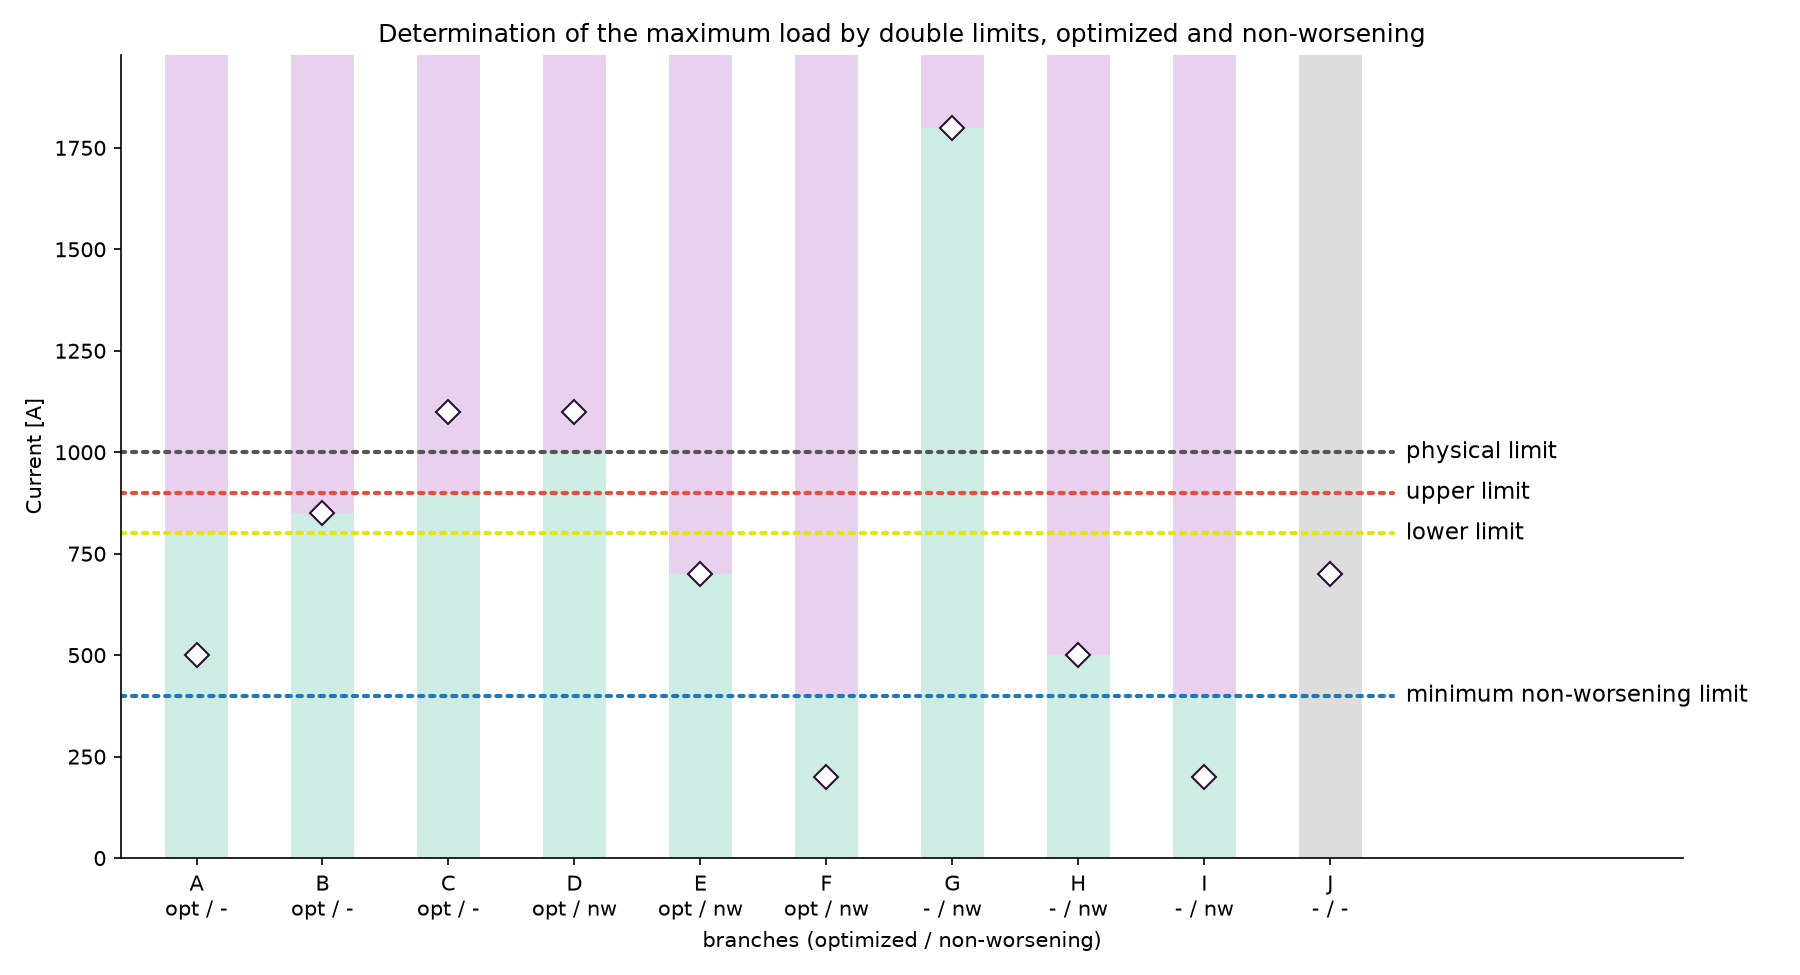
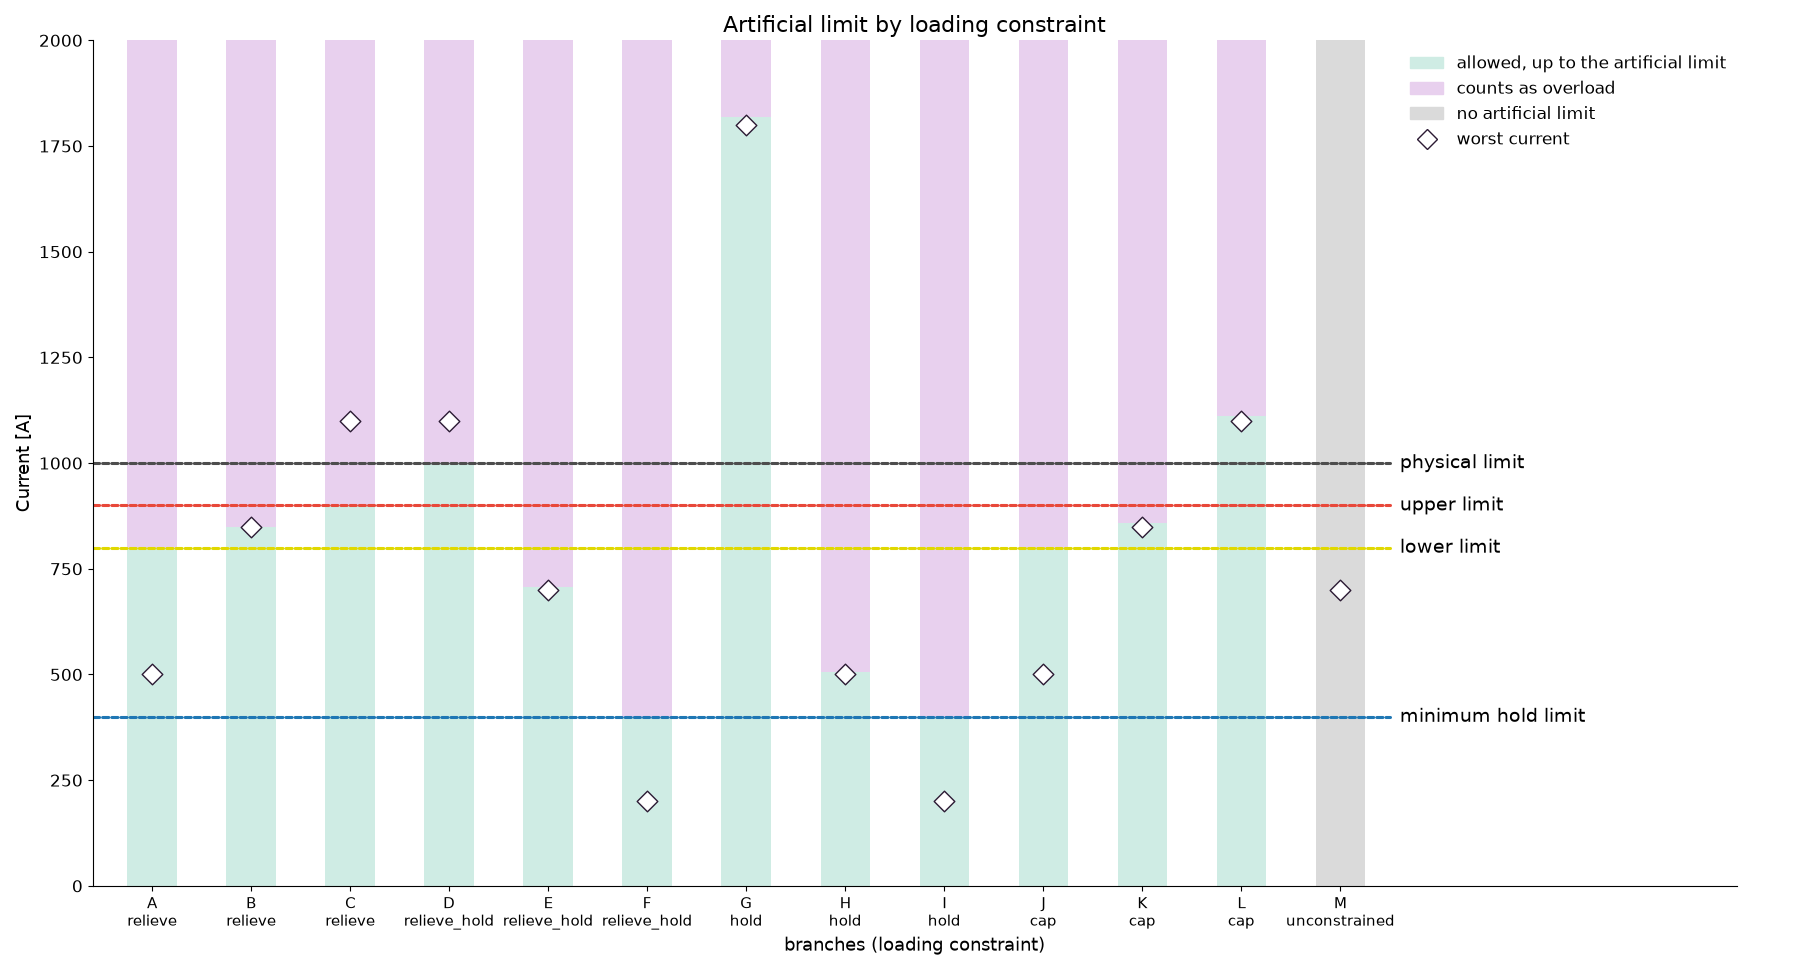
feat: add cap to loading constraints

diff --git a/scripts/plot_artificial_limits.py b/scripts/plot_artificial_limits.py
@@ -1,0 +1,131 @@
+# Copyright 2026 50Hertz Transmission GmbH and Elia Transmission Belgium SA/NV
+#
+# This Source Code Form is subject to the terms of the Mozilla Public License, v. 2.0.
+# If a copy of the MPL was not distributed with this file,
+# you can obtain one at https://mozilla.org/MPL/2.0/.
+# Mozilla Public License, version 2.0
+
+"""Plot the artificial limit of the example branches in docs/importer/pypowsybl/artificial_limits.md.
+
+The limits are computed with compute_artificial_limits, so the figure follows the implementation. Run it from the
+repository root after changing the limit computation or the example table:
+
+    uv run python scripts/plot_artificial_limits.py
+"""
+
+from pathlib import Path
+
+import matplotlib.pyplot as plt
+import pandas as pd
+from matplotlib.patches import Patch
+from toop_engine_importer.pypowsybl_import.artificial_limits import compute_artificial_limits
+from toop_engine_interfaces.messages.preprocess.preprocess_commands import DoubleLimits
+from toop_engine_interfaces.nminus1_definition import LoadingConstraint
+
+OUTPUT_PATH = Path(__file__).parent.parent / "docs" / "importer" / "pypowsybl" / "images" / "artificial_limits.png"
+
+PHYSICAL_LIMIT = 1000.0
+DOUBLE_LIMITS = DoubleLimits(lower=0.8, upper=0.9, minimum_hold_limit=0.4, hold_margin=0.01)
+
+# The branches of the example table: name, loading constraint and worst current in A
+BRANCHES = [
+    ("A", LoadingConstraint.RELIEVE, 500.0),
+    ("B", LoadingConstraint.RELIEVE, 850.0),
+    ("C", LoadingConstraint.RELIEVE, 1100.0),
+    ("D", LoadingConstraint.RELIEVE_HOLD, 1100.0),
+    ("E", LoadingConstraint.RELIEVE_HOLD, 700.0),
+    ("F", LoadingConstraint.RELIEVE_HOLD, 200.0),
+    ("G", LoadingConstraint.HOLD, 1800.0),
+    ("H", LoadingConstraint.HOLD, 500.0),
+    ("I", LoadingConstraint.HOLD, 200.0),
+    ("J", LoadingConstraint.CAP, 500.0),
+    ("K", LoadingConstraint.CAP, 850.0),
+    ("L", LoadingConstraint.CAP, 1100.0),
+    ("M", LoadingConstraint.UNCONSTRAINED, 700.0),
+]
+
+REFERENCE_LINES = [
+    ("physical limit", PHYSICAL_LIMIT, "#4d4d4d"),
+    ("upper limit", PHYSICAL_LIMIT * DOUBLE_LIMITS.upper, "#e8483a"),
+    ("lower limit", PHYSICAL_LIMIT * DOUBLE_LIMITS.lower, "#e0d800"),
+    ("minimum hold limit", PHYSICAL_LIMIT * DOUBLE_LIMITS.minimum_hold_limit, "#1f77b4"),
+]
+
+ALLOWED_COLOR = "#cfece4"
+OVERLOAD_COLOR = "#e8d0ee"
+NO_LIMIT_COLOR = "#dadada"
+BAR_WIDTH = 0.5
+Y_MAX = 2000.0
+
+
+def plot_artificial_limits() -> plt.Figure:
+    """Plot the allowed and the overloaded loading range of every example branch.
+
+    Returns
+    -------
+    plt.Figure
+        The figure with one bar per example branch, split at its artificial limit.
+    """
+    names, loading_constraints, worst_currents = zip(*BRANCHES, strict=True)
+    limits = compute_artificial_limits(
+        flow=pd.Series(worst_currents),
+        limit=pd.Series([PHYSICAL_LIMIT] * len(BRANCHES)),
+        loading_constraint=pd.Series(loading_constraints),
+        double_limits=DOUBLE_LIMITS,
+    )
+
+    fig, ax = plt.subplots(figsize=(18, 9.7), dpi=100)
+    positions = range(len(BRANCHES))
+    for position, limit, worst_current in zip(positions, limits, worst_currents, strict=True):
+        if pd.isna(limit):
+            ax.bar(position, Y_MAX, width=BAR_WIDTH, color=NO_LIMIT_COLOR)
+        else:
+            ax.bar(position, limit, width=BAR_WIDTH, color=ALLOWED_COLOR)
+            ax.bar(position, Y_MAX - limit, bottom=limit, width=BAR_WIDTH, color=OVERLOAD_COLOR)
+        ax.scatter(position, worst_current, marker="D", s=110, facecolor="white", edgecolor="#2b1a33", zorder=3)
+
+    line_end = len(BRANCHES) - 0.5
+    for label, value, color in REFERENCE_LINES:
+        ax.hlines(value, -0.6, line_end, colors=color, linestyles=(0, (2, 1)), linewidth=2.2, zorder=2)
+        ax.text(line_end + 0.1, value, label, va="center", fontsize=14)
+
+    ax.set_xticks(
+        list(positions),
+        [f"{name}\n{constraint.value}" for name, constraint in zip(names, loading_constraints, strict=True)],
+        fontsize=10.5,
+    )
+    ax.tick_params(axis="y", labelsize=12)
+    ax.set_xlim(-0.6, len(BRANCHES) + 3.0)
+    ax.set_ylim(0, Y_MAX)
+    ax.set_xlabel("branches (loading constraint)", fontsize=13)
+    ax.set_ylabel("Current [A]", fontsize=13)
+    ax.set_title("Artificial limit by loading constraint", fontsize=16)
+    ax.spines[["top", "right"]].set_visible(False)
+    ax.legend(
+        handles=[
+            Patch(color=ALLOWED_COLOR, label="allowed, up to the artificial limit"),
+            Patch(color=OVERLOAD_COLOR, label="counts as overload"),
+            Patch(color=NO_LIMIT_COLOR, label="no artificial limit"),
+            plt.Line2D(
+                [],
+                [],
+                marker="D",
+                linestyle="",
+                markersize=10,
+                markerfacecolor="white",
+                markeredgecolor="#2b1a33",
+                label="worst current",
+            ),
+        ],
+        loc="upper left",
+        bbox_to_anchor=(line_end + 0.05, Y_MAX),
+        bbox_transform=ax.transData,
+        fontsize=12,
+        frameon=False,
+    )
+    fig.tight_layout()
+    return fig
+
+
+if __name__ == "__main__":
+    plot_artificial_limits().savefig(OUTPUT_PATH)

diff --git a/packages/importer_pkg/tests/pypowsybl_import/test_optimization_limits.py b/packages/importer_pkg/tests/pypowsybl_import/test_optimization_limits.py
@@ -27,9 +27,9 @@ def test_create_artificial_limits(complex_grid_network: Network) -> None:
     permanent = limits[limits.name == "permanent_limit"].groupby(["element_id", "side"]).value.max()
     n_1 = limits[limits.name == "dacf_permanent_n_1"].groupby(["element_id", "side"]).value.max()
     n_1 = n_1.reindex(permanent.index).fillna(permanent)
-    line_ids = permanent.unstack()["ONE"].dropna().index[:3]
-    relieve_id, hold_id, relieve_hold_id = line_ids
-    flow_fraction = {relieve_id: 0.5, hold_id: 0.3, relieve_hold_id: 0.5}
+    line_ids = permanent.unstack()["ONE"].dropna().index[:4]
+    relieve_id, hold_id, relieve_hold_id, cap_id = line_ids
+    flow_fraction = {relieve_id: 0.5, hold_id: 0.3, relieve_hold_id: 0.5, cap_id: 0.5}
     n_1_factor = 1.2
 
     # The lines of the complex grid only have limits on side one
@@ -49,6 +49,7 @@ def test_create_artificial_limits(complex_grid_network: Network) -> None:
             MonitoredElement(
                 id=relieve_hold_id, kind="branch", type="LINE", loading_constraint=LoadingConstraint.RELIEVE_HOLD
             ),
+            MonitoredElement(id=cap_id, kind="branch", type="LINE", loading_constraint=LoadingConstraint.CAP),
         ],
         contingencies=[Contingency(id="BASECASE", elements=[])],
     )
@@ -60,10 +61,10 @@ def test_create_artificial_limits(complex_grid_network: Network) -> None:
         case_limits = new_limits[new_limits.name == f"artificial_limit_{case}"].set_index(["element_id", "side"]).value
         assert set(case_limits.index.get_level_values("element_id")) == set(line_ids)
         for (line_id, side), value in case_limits.items():
-            # Relieve-only branches below the lower limit get the lower limit, the others their flow
+            # Relieve-only and cap branches below the lower limit get the lower limit, the others their flow
             # but hold branches at least the minimum hold limit
-            fraction = 0.9 if line_id == relieve_id else flow_fraction[line_id] * factor
-            if line_id != relieve_id:
+            fraction = 0.9 if line_id in (relieve_id, cap_id) else flow_fraction[line_id] * factor
+            if line_id not in (relieve_id, cap_id):
                 fraction = max(
                     fraction * (1 + DoubleLimits().hold_margin),
                     DoubleLimits().minimum_hold_limit,

diff --git a/packages/interfaces_pkg/src/toop_engine_interfaces/nminus1_definition.py b/packages/interfaces_pkg/src/toop_engine_interfaces/nminus1_definition.py
@@ -123,6 +123,7 @@ class LoadingConstraint(str, Enum):
     - ``RELIEVE``: the element is healed when it exceeds its limit.
     - ``HOLD``: the element is not healed, but its loading must not rise.
     - ``RELIEVE_HOLD``: the element is healed when it exceeds its limit and its loading must not rise below it.
+    - ``CAP``: the element is not healed. Below its limit its loading may rise up to the limit, above it must not rise.
     - ``UNCONSTRAINED``: the element is monitored, i.e. it appears in the loadflow results, but the optimization
       neither heals nor limits it.
     """
@@ -130,6 +131,7 @@ class LoadingConstraint(str, Enum):
     RELIEVE = "relieve"
     HOLD = "hold"
     RELIEVE_HOLD = "relieve_hold"
+    CAP = "cap"
     UNCONSTRAINED = "unconstrained"
 
 
@@ -139,7 +141,8 @@ RELIEVE_CONSTRAINTS = frozenset({LoadingConstraint.RELIEVE, LoadingConstraint.RE
 # The loading constraints of elements that must not be made worse.
 HOLD_CONSTRAINTS = frozenset({LoadingConstraint.HOLD, LoadingConstraint.RELIEVE_HOLD})
 
-# The loading constraint of an element by its entries in the relieve and the hold mask, in that order.
+# The loading constraint of an element by its entries in the relieve and the hold mask, in that order. The masks
+# cannot express CAP.
 CONSTRAINT_BY_MASKS = {
     (True, False): LoadingConstraint.RELIEVE,
     (False, True): LoadingConstraint.HOLD,

diff --git a/packages/importer_pkg/src/toop_engine_importer/pypowsybl_import/artificial_limits.py b/packages/importer_pkg/src/toop_engine_importer/pypowsybl_import/artificial_limits.py
@@ -56,6 +56,8 @@ def compute_artificial_limits(
     - ``RELIEVE_HOLD`` branches ignore the lower and upper limit.
       They get the physical limit if overloaded, otherwise their flow plus ``hold_margin`` (capped at
       the physical limit), at least ``minimum_hold_limit`` times the physical limit.
+    - ``CAP`` branches get the larger of the lower limit and their flow plus ``hold_margin``. The upper limit
+      does not apply, so an overloaded branch is held and not healed.
     - ``UNCONSTRAINED`` branches get no limit.
 
     Parameters
@@ -79,10 +81,12 @@ def compute_artificial_limits(
     relieve_limit = flow.clip(lower=limit * double_limits.lower)
     relieve_limit = relieve_limit.where(flow <= upper_limit, upper_limit)
     relieve_hold_limit = hold_limit.clip(upper=limit).where(flow <= limit, limit)
+    cap_limit = (flow * (1 + double_limits.hold_margin)).clip(lower=limit * double_limits.lower)
 
     limits = relieve_limit.where(loading_constraint == LoadingConstraint.RELIEVE)
     limits = limits.mask(loading_constraint == LoadingConstraint.HOLD, hold_limit)
     limits = limits.mask(loading_constraint == LoadingConstraint.RELIEVE_HOLD, relieve_hold_limit)
+    limits = limits.mask(loading_constraint == LoadingConstraint.CAP, cap_limit)
 
     return limits.where(flow.notna() & limit.notna())
 

diff --git a/packages/importer_pkg/tests/pypowsybl_import/test_preprocessing.py b/packages/importer_pkg/tests/pypowsybl_import/test_preprocessing.py
@@ -169,6 +169,7 @@ def test_fill_statistics_for_nminus1_definition() -> None:
             MonitoredElement(id="relieve", type="LINE", kind="branch", loading_constraint=LoadingConstraint.RELIEVE),
             MonitoredElement(id="hold", type="LINE", kind="branch", loading_constraint=LoadingConstraint.HOLD),
             MonitoredElement(id="both", type="LINE", kind="branch", loading_constraint=LoadingConstraint.RELIEVE_HOLD),
+            MonitoredElement(id="cap", type="LINE", kind="branch", loading_constraint=LoadingConstraint.CAP),
             MonitoredElement(id="switch", type="SWITCH", kind="switch", loading_constraint=LoadingConstraint.RELIEVE_HOLD),
         ],
         contingencies=[Contingency(id="BASECASE", elements=[])],
@@ -176,9 +177,10 @@ def test_fill_statistics_for_nminus1_definition() -> None:
 
     preprocessing.fill_statistics_for_nminus1_definition(statistics=statistics, nminus1_definition=nminus1_definition)
 
-    assert statistics.import_result.n_branches_monitored == 3
+    assert statistics.import_result.n_branches_monitored == 4
     assert statistics.import_result.n_branches_relieve == 2
     assert statistics.import_result.n_branches_hold == 2
+    assert statistics.import_result.n_branches_cap == 1
 
 
 def test_import_grid_with_security_analysis(ucte_file):

diff --git a/packages/importer_pkg/tests/pypowsybl_import/test_loadflow_based_current_limits.py b/packages/importer_pkg/tests/pypowsybl_import/test_loadflow_based_current_limits.py
@@ -55,6 +55,24 @@ def test_compute_artificial_limits() -> None:
     np.testing.assert_allclose(limits.to_numpy(), expected)
 
 
+def test_compute_artificial_limits_cap_allows_headroom_to_lower_limit_and_holds_above() -> None:
+    # flow: limit is 1000, lower limit 800, upper limit 900
+    cases = [
+        (500.0, 800.0),  # below the lower limit -> lower limit
+        (795.0, 802.95),  # just below the lower limit -> flow plus margin, as it exceeds the lower limit
+        (850.0, 858.5),  # between lower and upper limit -> flow plus margin
+        (1100.0, 1111.0),  # overloaded -> flow plus margin, not healed
+    ]
+    flow, expected = (list(column) for column in zip(*cases, strict=True))
+    limits = compute_artificial_limits(
+        flow=pd.Series(flow),
+        limit=pd.Series(np.full(len(cases), 1000.0)),
+        loading_constraint=pd.Series([LoadingConstraint.CAP] * len(cases)),
+        double_limits=DoubleLimits(lower=0.8, upper=0.9, minimum_hold_limit=0.4, hold_margin=0.01),
+    )
+    np.testing.assert_allclose(limits.to_numpy(), expected)
+
+
 def test_compute_artificial_limits_hold_margin() -> None:
     limits = compute_artificial_limits(
         flow=pd.Series([80.0, 99.5, 120.0]),

diff --git a/packages/dc_solver_pkg/tests/preprocessing/test_powsybl_backend.py b/packages/dc_solver_pkg/tests/preprocessing/test_powsybl_backend.py
@@ -157,6 +157,20 @@ def test_monitored_flags_and_weights_are_read_from_nminus1_definition(powsybl_ca
     assert weights[unmonitored_id] == 1.0
 
 
+def test_cap_branch_is_monitored_by_the_backend(powsybl_case57_folder_xiidm: Path) -> None:
+    definition_path = powsybl_case57_folder_xiidm / PREPROCESSING_PATHS["nminus1_definition_file_path"]
+    cap_id = PowsyblBackend(DirFileSystem(str(powsybl_case57_folder_xiidm))).get_branch_ids()[0]
+    definition = load_nminus1_definition(definition_path)
+    monitored_elements = [MonitoredElement(id=cap_id, type="LINE", kind="branch", loading_constraint=LoadingConstraint.CAP)]
+    save_nminus1_definition(definition_path, definition.model_copy(update={"monitored_elements": monitored_elements}))
+
+    backend = PowsyblBackend(DirFileSystem(str(powsybl_case57_folder_xiidm)))
+
+    ids = np.asarray(backend.get_branch_ids())
+    assert dict(zip(ids, backend.get_branch_loading_constraints(), strict=True))[cap_id] == LoadingConstraint.CAP
+    assert set(ids[backend.get_monitored_branch_mask()]) == {cap_id}
+
+
 def test_complex_definition_does_not_synthesize_single_branch_outages(
     complex_grid_battery_hvdc_svc_3w_trafo_linear_1_0_data_folder: Path,
 ) -> None:

diff --git a/packages/importer_pkg/tests/pypowsybl_import/test_nminus1_definition_conversion.py b/packages/importer_pkg/tests/pypowsybl_import/test_nminus1_definition_conversion.py
@@ -211,6 +211,16 @@ def test_definition_without_three_winding_transformers_is_unchanged(complex_grid
         ),
         pytest.param(
             Trafo3wLegMonitoring.SINGLE_LEG,
+            {"loading_constraint": LoadingConstraint.CAP},
+            {
+                "3W-Leg1": {"loading_constraint": LoadingConstraint.UNCONSTRAINED, "displayed": False},
+                "3W-Leg2": {"loading_constraint": LoadingConstraint.CAP, "displayed": True},
+                "3W-Leg3": {"loading_constraint": LoadingConstraint.UNCONSTRAINED, "displayed": False},
+            },
+            id="single_leg-cap_unflags_other_legs",
+        ),
+        pytest.param(
+            Trafo3wLegMonitoring.SINGLE_LEG,
             {"loading_constraint": LoadingConstraint.UNCONSTRAINED},
             {
                 "3W-Leg1": {"loading_constraint": LoadingConstraint.UNCONSTRAINED, "displayed": False},

diff --git a/packages/interfaces_pkg/tests/test_nminus1_definition.py b/packages/interfaces_pkg/tests/test_nminus1_definition.py
@@ -151,7 +151,12 @@ def test_constraint_sets_cover_relieve_hold_constraints() -> None:
     assert HOLD_CONSTRAINTS == {LoadingConstraint.HOLD, LoadingConstraint.RELIEVE_HOLD}
 
 
-@pytest.mark.parametrize("loading_constraint", list(LoadingConstraint))
+def test_cap_cannot_be_expressed_by_the_relieve_and_hold_masks() -> None:
+    assert LoadingConstraint.CAP not in CONSTRAINT_BY_MASKS.values()
+    assert LoadingConstraint.CAP not in RELIEVE_CONSTRAINTS | HOLD_CONSTRAINTS
+
+
+@pytest.mark.parametrize("loading_constraint", list(CONSTRAINT_BY_MASKS.values()))
 def test_constraint_by_masks_is_consistent_with_constraint_sets(loading_constraint: LoadingConstraint) -> None:
     masks_by_constraint = {mapped_constraint: masks for masks, mapped_constraint in CONSTRAINT_BY_MASKS.items()}
 

diff --git a/packages/importer_pkg/src/toop_engine_importer/pypowsybl_import/preprocessing.py b/packages/importer_pkg/src/toop_engine_importer/pypowsybl_import/preprocessing.py
@@ -91,6 +91,7 @@ from toop_engine_interfaces.nminus1_definition import (
     RELIEVE_CONSTRAINTS,
     Contingency,
     GridElement,
+    LoadingConstraint,
     MonitoredElement,
     Nminus1Definition,
     get_monitored_station_elements,
@@ -1069,6 +1070,9 @@ def fill_statistics_for_nminus1_definition(
         element.loading_constraint in RELIEVE_CONSTRAINTS for element in branches
     )
     statistics.import_result.n_branches_hold = sum(element.loading_constraint in HOLD_CONSTRAINTS for element in branches)
+    statistics.import_result.n_branches_cap = sum(
+        element.loading_constraint == LoadingConstraint.CAP for element in branches
+    )
 
 
 def fill_statistics_for_network_masks(

diff --git a/packages/interfaces_pkg/src/toop_engine_interfaces/messages/preprocess/preprocess_results.py b/packages/interfaces_pkg/src/toop_engine_interfaces/messages/preprocess/preprocess_results.py
@@ -97,6 +97,9 @@ class ImportResult(BaseModel):
     n_branches_hold: NonNegativeInt = 0
     """The number of branches in the N-1 definition with the loading constraint hold (not to be made worse)"""
 
+    n_branches_cap: NonNegativeInt = 0
+    """The number of branches in the N-1 definition with the loading constraint cap (not healed, may rise to the limit)"""
+
     overload_current_permanent_n_0: Optional[float] = None
     """The AC overload current in A of the unsplit grid in the N-0 case against the permanent limits, computed like the
     AC optimizer. None if the N-1 definition has no base case."""

diff --git a/docs/importer/pypowsybl/artificial_limits.md b/docs/importer/pypowsybl/artificial_limits.md
@@ -8,12 +8,12 @@ The importer sets the optimization limit of every monitored branch as the operat
 
 | Field | Meaning | Default |
 |---|---|---|
-| `lower` | Relieve branches below this share of the physical limit may be loaded up to it. | 1.0 |
+| `lower` | Relieve and cap branches below this share of the physical limit may be loaded up to it. | 1.0 |
 | `upper` | Relieve branches above this share of the physical limit are reduced to it. | 1.0 |
 | `minimum_hold_limit` | Smallest artificial limit of hold branches. Keeps branches with a low or zero flow above 0. | 0.4 |
-| `hold_margin` | Margin added to the worst current of hold branches. Prevents numerical noise (e.g. 1e-10 above the limit) from counting as an overload, which would add a full overload count penalty. | 0.01 |
+| `hold_margin` | Margin added to the worst current of hold branches, and of cap branches that are held. Prevents numerical noise (e.g. 1e-10 above the limit) from counting as an overload, which would add a full overload count penalty. | 0.01 |
 
-`lower` must not exceed `upper`. With the defaults, relieve branches get their physical limit. Hold branches are limited to their worst current plus `hold_margin`, or to the `minimum_hold_limit` physical limit. For a `relieve_hold` branch, the margin never lifts the limit above the physical limit.
+`lower` must not exceed `upper`. With the defaults, relieve branches get their physical limit. Hold branches are limited to their worst current plus `hold_margin`, or to the `minimum_hold_limit` physical limit. For a `relieve_hold` branch, the margin never lifts the limit above the physical limit. Cap branches get the larger of the lower limit and their worst current plus `hold_margin`; `upper` and `minimum_hold_limit` do not apply to them.
 
 ![Determination of the maximum load by double limits](images/double_limits_functionality.jpg){width=400}
 
@@ -42,11 +42,14 @@ The artificial limit depends on the `loading_constraint` of the branch ([`Loadin
 | G | `hold` | 1800 A | 1818 A | Overloaded: loading must not be increased. |
 | H | `hold` | 500 A | 505 A | Not overloaded: loading must not be increased beyond the margin. |
 | I | `hold` | 200 A | 400 A | Not overloaded and below the minimum hold limit: loading may increase to `minimum_hold_limit`. |
-| J | `unconstrained` | 700 A | none | Monitored without a limit. |
+| J | `cap` | 500 A | 800 A | Below the lower limit: `lower` times the physical limit. May be loaded up to the lower limit. |
+| K | `cap` | 850 A | 858.5 A | Between limits: the worst current plus `hold_margin`. Loading must not be increased. |
+| L | `cap` | 1100 A | 1111 A | Overloaded: the worst current plus `hold_margin`. Not healed, loading must not be increased. |
+| M | `unconstrained` | 700 A | none | Monitored without a limit. |
 
 ![Artificial limit by loading constraint](images/artificial_limits.png){width=800}
 
-Branches without a worst current or a physical limit get no artificial limit. The importer masks never produce the loading constraint `relieve_hold`; only an input N-1 definition can set it (branches D, E and F). A branch that is not monitored gets no artificial limit either.
+Branches without a worst current or a physical limit get no artificial limit. The importer masks never produce the loading constraint `relieve_hold`; only an input N-1 definition can set it (branches D, E and F). The same holds for `cap` (branches J, K and L), which the masks cannot express. A branch that is not monitored gets no artificial limit either.
 
 ## Written limits
 
